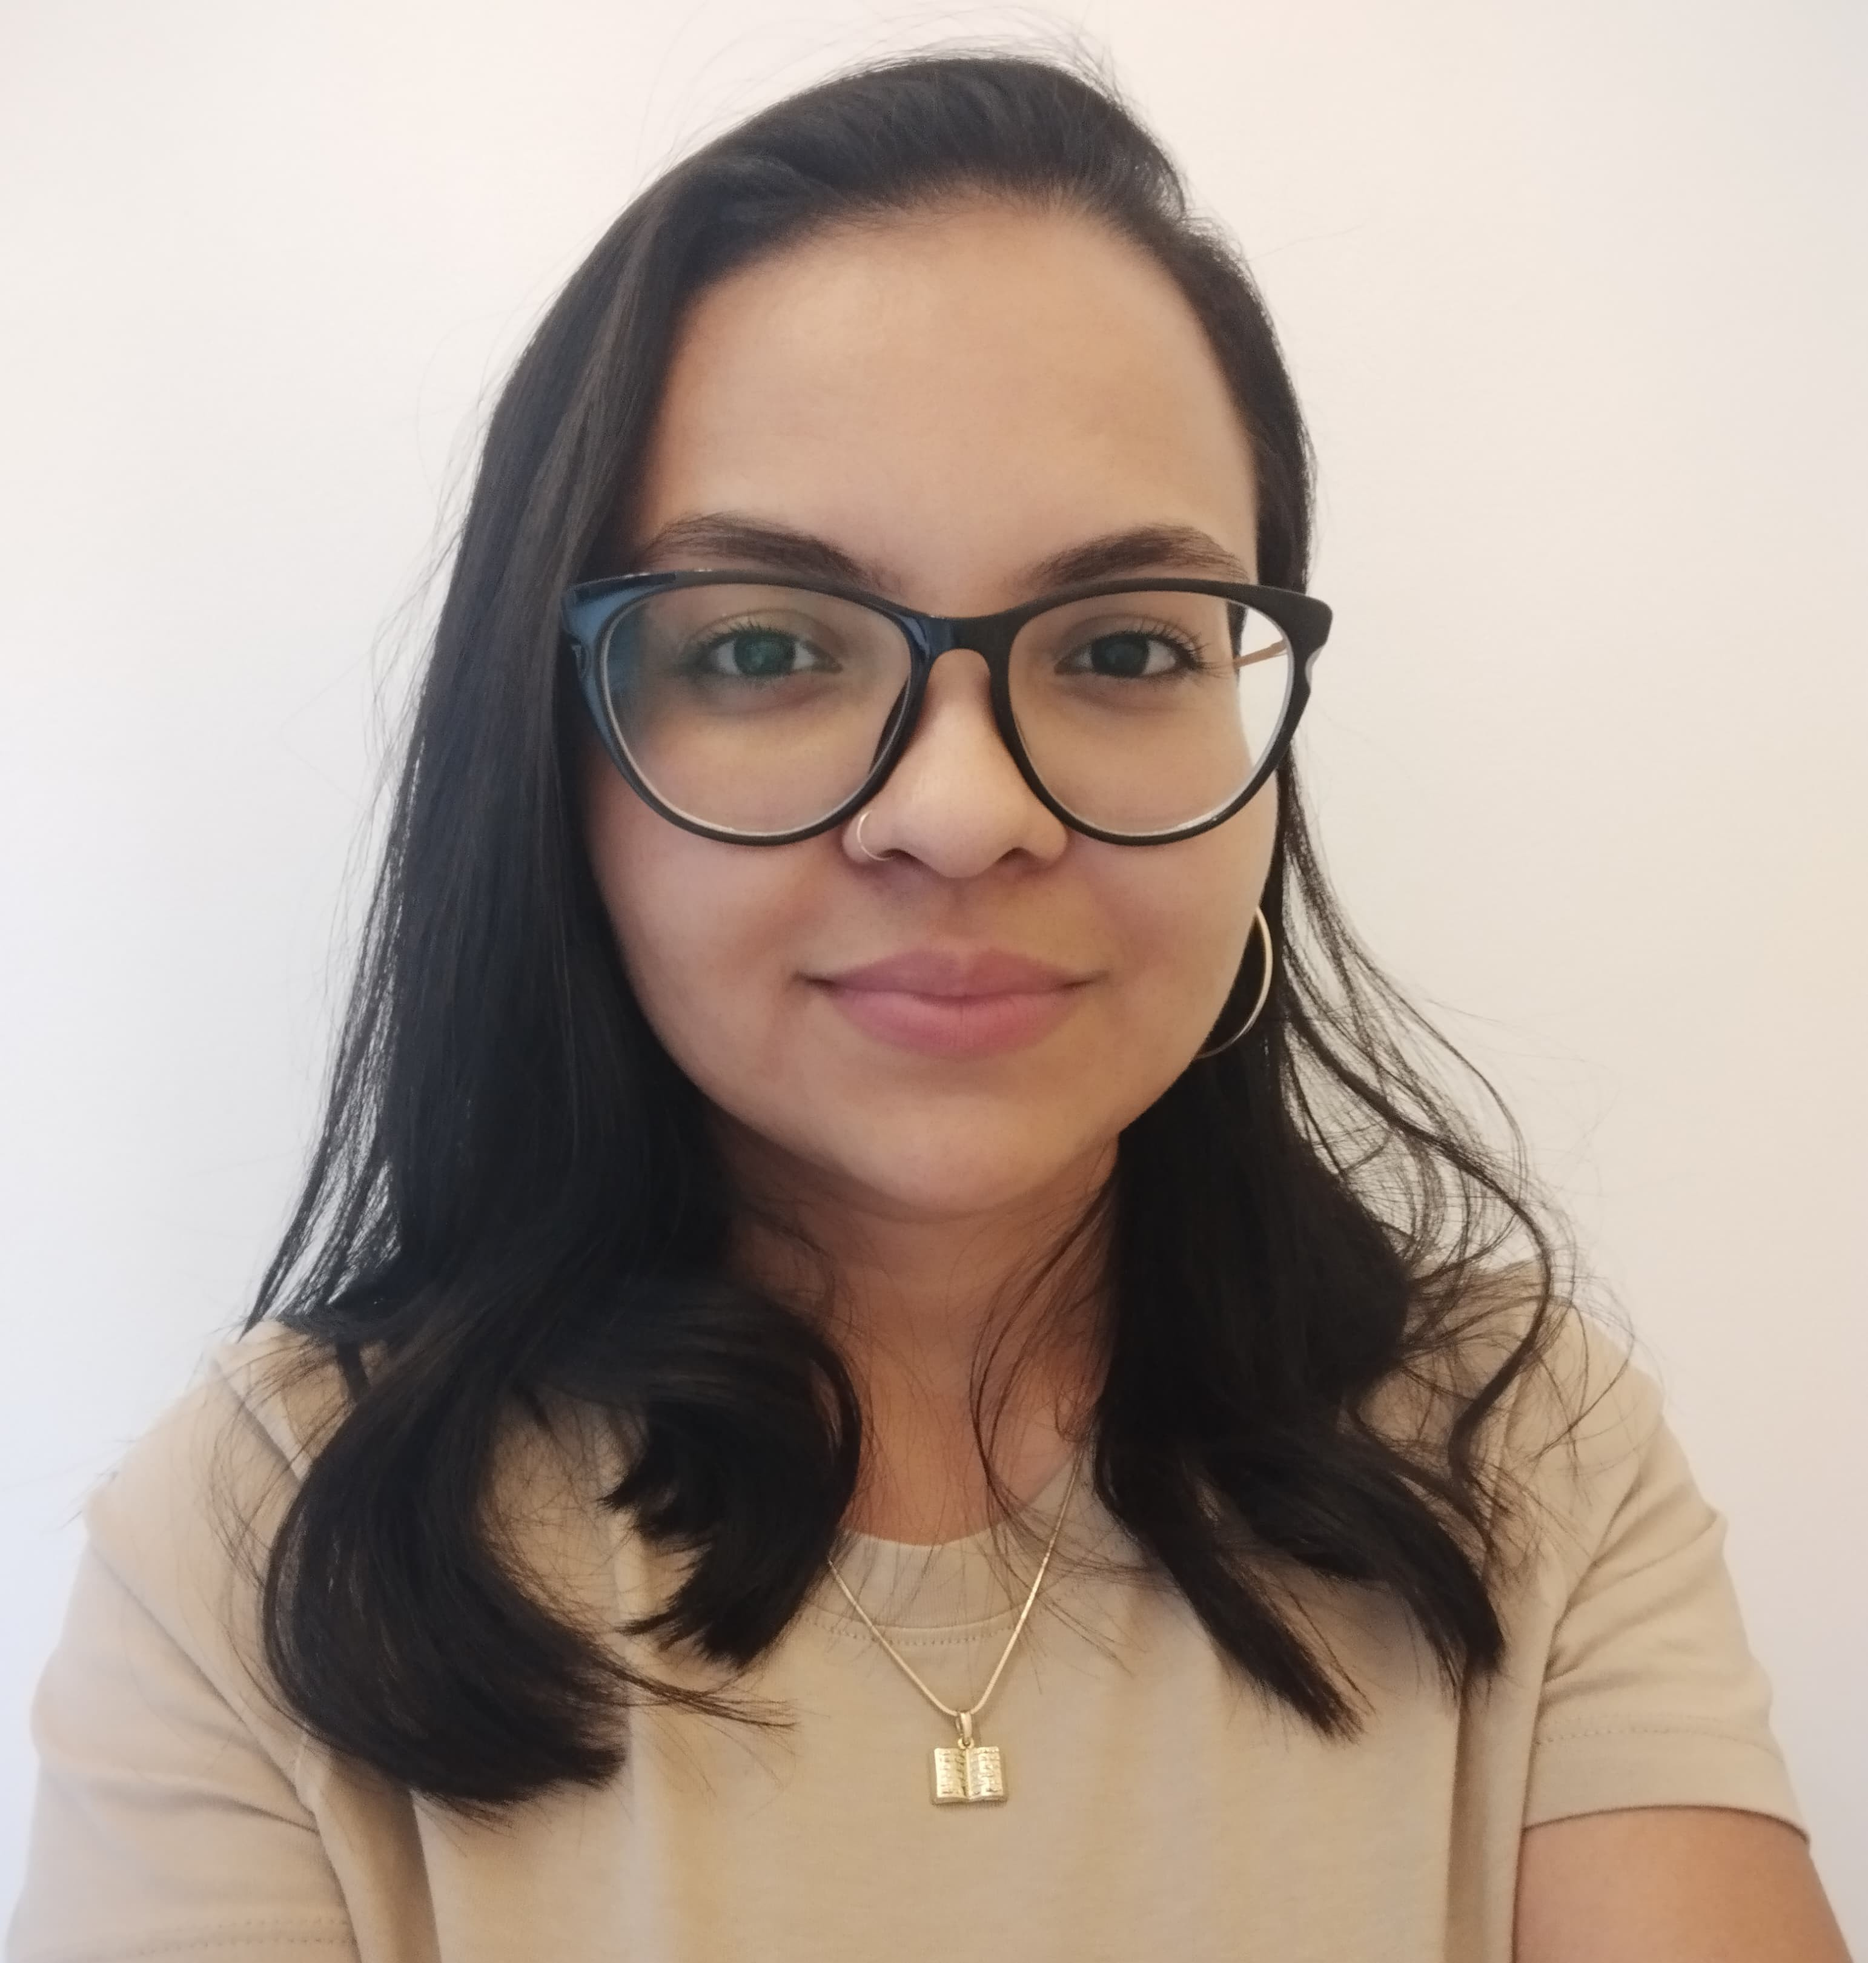
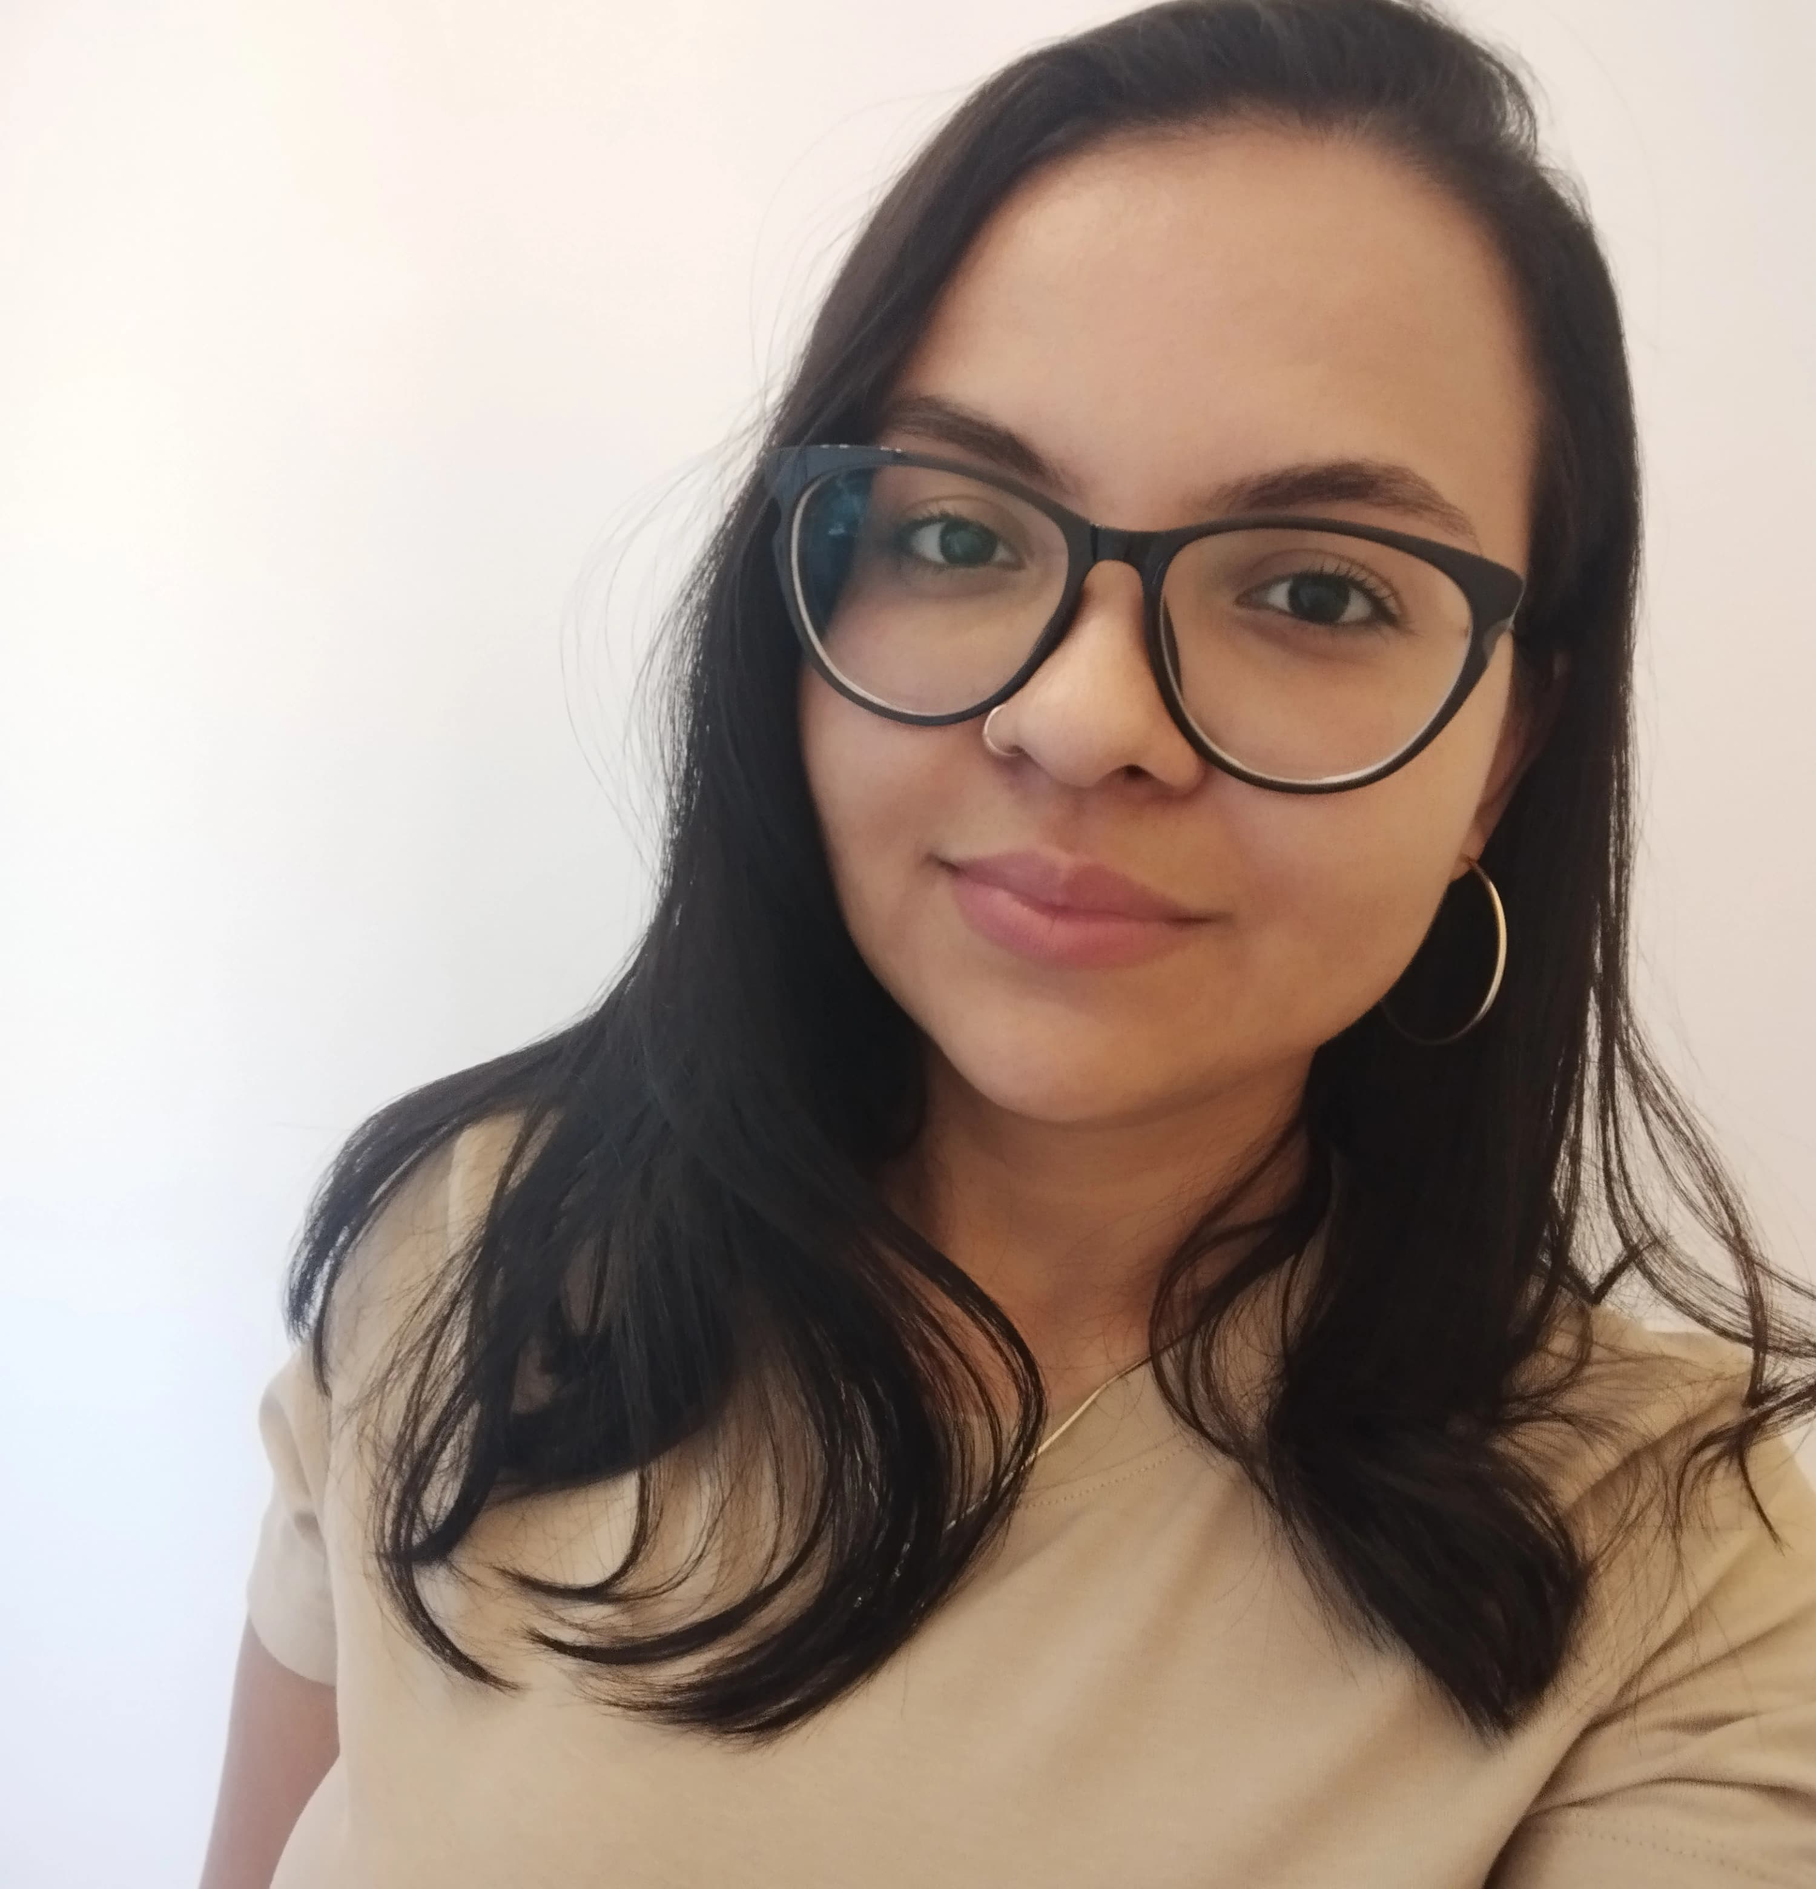
Melhorias feitas no layout, alteração d imagem, ajustes nos links e espaçamento dos textos

diff --git a/index.html b/index.html
@@ -19,19 +19,86 @@
     <section class="container">
       <img src="perfil_4.jpeg" alt="foto-perfil" class="profile-pic" />
       <h1>  Maria Leilane </h1>
-      <p>Full-Stack Developer</p>
+      <p class="subtitulo">Analista de Sistemas | Desenvolvedora Back-end & Front-end </p>
+
+    <section class="icons">
+      <!-- GitHub -->
+      <a href="https://github.com/mleilane" target="_blank">
+        <i class="fab fa-github"></i>
+      </a>
+
+      <!-- WhatsApp -->
+      <a href="https://wa.me/5514982123568" target="_blank">
+        <i class="fab fa-whatsapp"></i>
+      </a>
+
+      <!-- Linkedin -->
+      <a href="https://www.linkedin.com/in/maria-leilane" target="_blank">
+          <i class="fab fa-linkedin"></i>
+      </a>
+        
+
+      <!-- E-mail -->
+      <a href="mailto:leilane94silva@yahoo.com">
+        <i class="fas fa-envelope"></i>
+      </a>
+    </section>
+
+      <div class="card">
+       
+        <div class="card-header" id="toggle-button">
+          <div class="card-header-left"> 
+          <img src="sobre.jpeg" alt="Foto Perfil" class="profile-small" />
+          <span>Trajetória Profissional</span>
+        </div>
+          <span class="icon" id="toggle-icon">&#9654;</span> <!-- Ícone de seta -->
+        </div>
+        
+        <div class="card-content hidden" id="expandable-content">
+          <p>Comecei minha jornada profissional acreditando no poder da educação e da tecnologia para transformar realidades — incluindo a minha. Com o tempo, descobri na programação não apenas uma nova carreira, mas uma missão: criar soluções que impactem pessoas de verdade. <br> <br> Hoje atuo como Analista de Sistemas, desenvolvendo habilidades em back-end e front-end, ao mesmo tempo em que compartilho aprendizados, crio projetos autorais como o BookHub e sigo estudando para construir um caminho sólido, inclusivo e com propósito dentro da tecnologia.</p>
+        </div>
+      </div>
+
+
       <section class="links">
-        <a href="https://wa.me/5514982123568" target="_blank"><i class="fab fa-whatsapp"></i> WhatsApp <span class="colon">:</span></a>
-        <a href="https://www.linkedin.com/in/maria-leilane" target="_blank"><i class="fab fa-linkedin"></i> LinkedIn <span class="colon">:</span></a>
-        <a href="https://github.com/mleilane" target="_blank"><i class="fab fa-github"></i> GitHub <span class="colon">:</span></a>
-        <a href="https://www.instagram.com/codinggirl__" target="_blank" ><i class="fab fa-instagram"></i> Instagram <span class="colon">:</span></a>
-        <a href="https://www.tiktok.com/@marialeilanne" target="_blank"><i class="fab fa-tiktok"></i> TikTok <span class="colon">:</span></a>
-        <!--<a href="https://www.skoob.com.br/share/user/MariaLeilanne" target="_blank"><i class="fas fa-book"></i> Skoob <span class="colon">:</span></a> -->
+        
+        <a href="#" target="_blank" style="color: white; pointer-events: none;">
+          <div class="link-content">
+            <i class="fas fa-laptop-code"></i>
+            <span>Explore meus projetos (em breve)</span>
+          </div>
+          <!--<i class="fas fa-ellipsis-v"></i>-->
+        </a>
+
+        <a href="https://www.linkedin.com/in/maria-leilane" target="_blank">
+          <div class="link-content">
+            <i class="fab fa-linkedin"></i>
+            <span>Atualizações sobre minha carreira</span>
+          </div>
+          <!--<i class="fas fa-ellipsis-v"></i>-->
+        </a>
+      
+        <a href="https://www.instagram.com/codinggirl__" target="_blank">
+          <div class="link-content">
+            <i class="fab fa-instagram"></i>
+            <span>Acompanhe os bastidores no Instagram</span>
+          </div>
+          <!--<i class="fas fa-ellipsis-v"></i>-->
+        </a>
+      
+        <a href="https://www.tiktok.com/@marialeilanne" target="_blank">
+          <div class="link-content">
+            <i class="fab fa-tiktok"></i>
+            <span>Um mix de tech, hobbies e conteúdo leve</span>
+          </div>
+          <!--<i class="fas fa-ellipsis-v"></i>-->
+        </a>
       </section>
+
       <footer class="footer">
         <p>&copy; <span id="current-year"></span>  Maria Leilane.</p>
         <p>
-          <a href="mailto:leilane94silva@yahoo.com"><i class="fas fa-envelope"></i> leilane94silva@yahoo.com</a> 
+          <!-- <a href="mailto:leilane94silva@yahoo.com"><i class="fas fa-envelope"></i> leilane94silva@yahoo.com</a> -->
          </p>
     </footer>
     </section>
@@ -39,6 +106,21 @@
      <!-- JavaScript -->
      <script>
       document.getElementById('current-year').textContent = new Date().getFullYear();
+    
+      const button = document.getElementById('toggle-button');
+    const content = document.getElementById('expandable-content');
+    const icon = document.getElementById('toggle-icon');
+
+    button.addEventListener('click', () => {
+      content.classList.toggle('hidden');
+      // Alterna o ícone da seta
+      if (content.classList.contains('hidden')) {
+        icon.innerHTML = '&#9654;';  // Setinha para a direita
+      } else {
+        icon.innerHTML = '&#9660;';  // Setinha para baixo
+      }
+    });
+       
     </script>
   </body>
 </html>

diff --git a/style.css b/style.css
@@ -4,28 +4,27 @@ body {
   font-family: "Montserrat", sans-serif;
   display: flex;
   justify-content: center;
-  align-items: center;
+  align-items: flex-start;
   height: 100vh;
-  margin: 100vh;
   margin: 0;
-  background-color: #dddbdb;
-  
+  background-color: rgb(10, 10, 14);
 }
 
 .container {
   text-align: center;
   background-color: rgb(10, 10, 14);
-  
+
   padding: 20px;
   border-radius: 10px;
   box-shadow: 0 0 10px rgba(0, 0, 0, 0.1);
   backdrop-filter: blur(20px);
   margin-bottom: 20px;
-  width: 18rem;
+  width: 38rem;
 }
+
 .profile-pic {
-  width: 130px;
-  height: 130px;
+  width: 95px;
+  height: 95px;
   margin-bottom: 5px;
   border-radius: 50%;
 }
@@ -33,6 +32,12 @@ body {
 h1 {
   color: #ffffff;
   font-size: 18px;
+}
+
+.subtitulo {
+  color: #ffffff;
+  margin: 10px 0 20px;
+  font-size: 11px;
 }
 
 p {
@@ -48,6 +53,7 @@ p {
 }
 
 .links a {
+  
   text-decoration: none;
   color: #ffffff;
   background-color: #9713cf;
@@ -56,22 +62,104 @@ p {
   transition: background-color 0.3s;
   display: flex;
   align-items: center;
-  justify-content: flex-start;
+  justify-content: space-between; /* <-- separa o bloco esquerdo do ícone */
   gap: 75px;
+  position: relative;
+  font-size: 13px;
+}
+
+.link-content {
+  display: flex;
+  align-items: center;
+  gap: 180px;
+  flex-grow: 1; /*permite que o conteúdo ocupe o espaço disp. proporcionalmente.*/
+}
+
+.link-content i{
+  font-size: 20px;
 }
 
 .links a:hover {
-  background-color: #7d0faa ;
+  background-color: #7d0faa;
   box-shadow: 0 0 10px rgba(160, 50, 220, 0.5);
+  cursor: pointer;
+}
+
+/* card minha trajetoria */
+.card {
+  width: 100%;
+  background-color: #9713cf;
+  border-radius: 5px;
+  overflow: hidden;
+  box-shadow: 0 0 10px rgba(160, 50, 220, 0.5);
+  font-size: 13px;
+  margin-bottom: 18px;
+  margin-top: 18px;
+}
+
+.card-header {
+  text-decoration: none;
+  background-color: #9713cf;
+  color: #ffffff;
+  padding: 10px;
+  cursor: pointer;
+  display: flex;
+  justify-content: space-between;
+  align-items: center;
+  font-size: 13px;
+}
+
+.card-header-left {
+  display: flex;
+  align-items: center;
+  gap: 200px;
+}
+
+.card-content {
+  background-color: #9713cf;
+  padding: 20px;
+  line-height: 1.6;
+  text-align: justify; /*deixa o texto justificado*/
+}
+
+.card-header:hover {
+  background-color: #7d0faa;
+  box-shadow: 0 0 10px rgba(160, 50, 220, 0.5);
+  cursor: pointer;
+}
+
+.hidden {
+  display: none;
+}
+
+.profile-small {
+  width: 30px;
+  height: 30px;
+  border-radius: 50%; /* Deixa redondo */
+  object-fit: cover;
+  margin-right: 10px;
+}
+
+/* icones whts - github e e-mail*/
+.icons {
+  display: flex;
+  justify-content: center; /* Centraliza os ícones */
+  gap: 15px; /* Espaçamento entre os ícones */
+}
+
+.icons a {
+  font-size: 24px; /* Tamanho dos ícones */
+  color: #ffffff; /* Cor padrão dos ícones */
+  text-decoration: none; /* <--- evita sublinhado */
+  transition: color 0.3s; /* Transição suave para a cor */
+}
+
+.icons a:hover {
+  color: #9713cf;
 }
 
 
-.colon {
-  position: absolute;
-  right: 30px;
-  
-}
-
+/* rodapé */
 .footer {
   text-align: center;
   padding: 10px;
@@ -93,5 +181,4 @@ p {
 }
 .footer i {
   margin-right: 5px;
-  
 }
